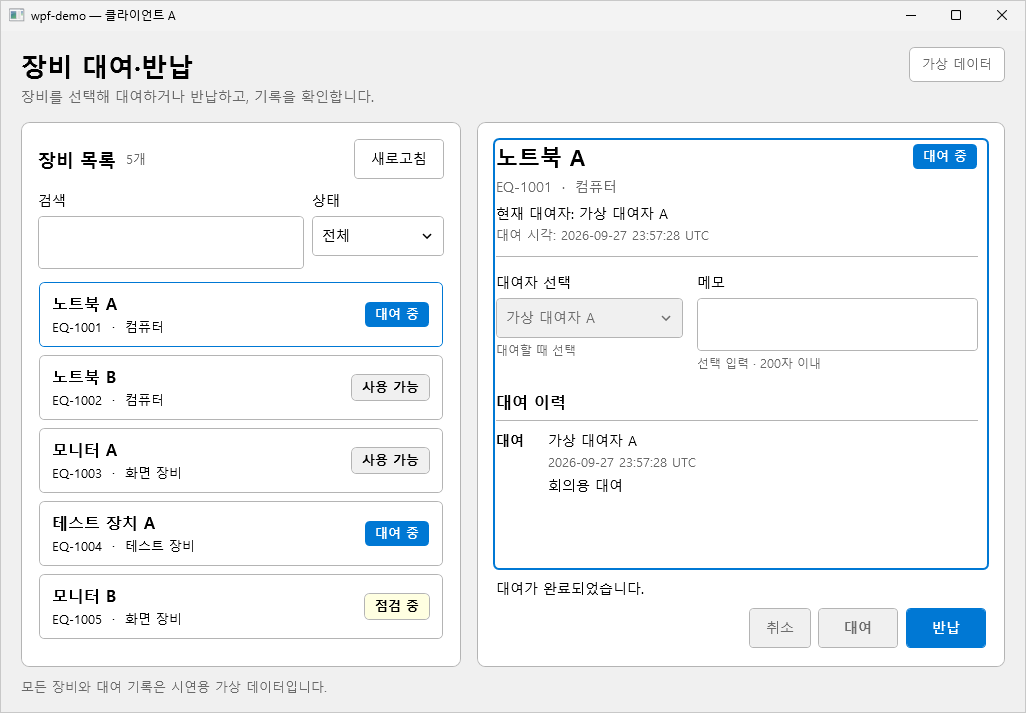
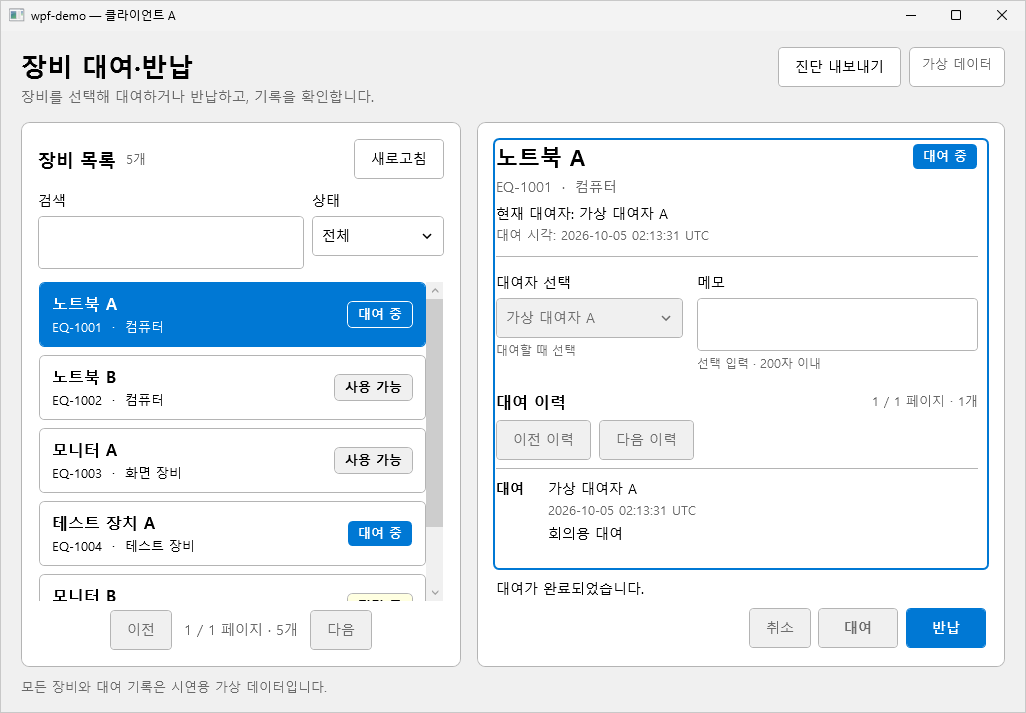
Refresh Windows verification link and lending screenshot

diff --git a/README.md b/README.md
@@ -14,7 +14,7 @@ Windows에서 실제 앱을 녹화했습니다. 아래 GIF는 대여·반납 영
 
 ## Windows에서 실행
 
-[확인한 Windows Actions 실행](https://github.com/GyutaeLee/wpf-demo/actions/runs/37253113506)에서 `wpf-demo-windows` 산출물을 받습니다. 압축을 풀고 안의 `wpf-demo-windows-demo.zip`도 풉니다.
+[확인한 Windows Actions 실행](https://github.com/GyutaeLee/wpf-demo/actions/runs/37254391635)에서 `wpf-demo-windows` 산출물을 받습니다. 압축을 풀고 안의 `wpf-demo-windows-demo.zip`도 풉니다.
 
 1. `api\WpfDemo.Api.exe`를 실행합니다.
 2. 다른 터미널에서 `client\WpfDemo.exe`를 실행합니다.
